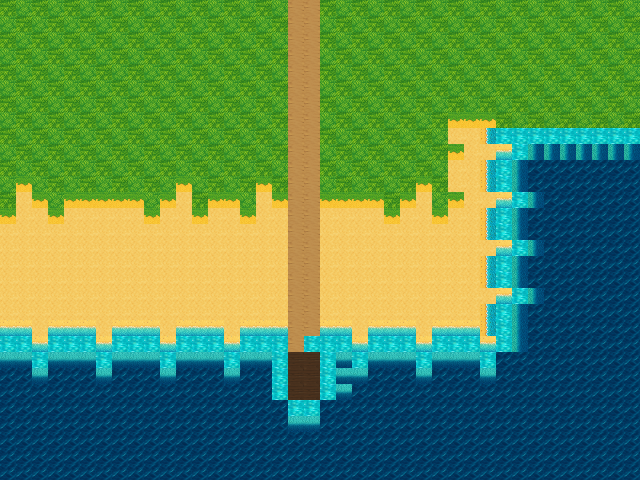
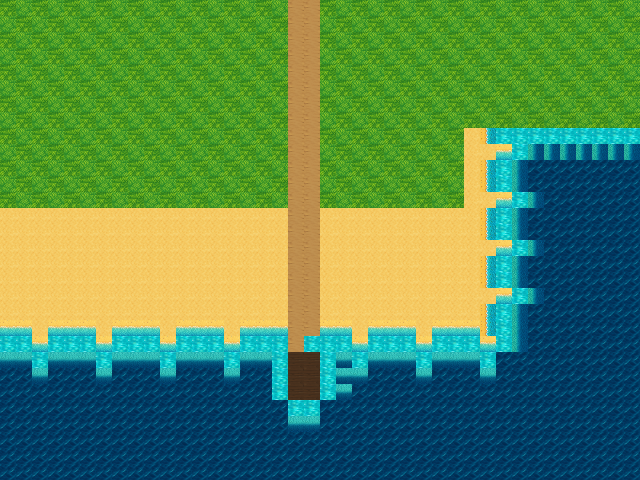
Ocean 31i: straight grass-to-beach line, keep foam scallop.

Changed region(s): [[0.0, 0.375, 0.4688, 0.4688], [0.5, 0.2188, 0.7812, 0.4688]]

diff --git a/index.html b/index.html
@@ -115,7 +115,7 @@
 (function () {
   "use strict";
 
-  var BUILD = "20260831h";
+  var BUILD = "20260831i";
   var VIEW_W = 320;
   var VIEW_H = 192;
   var TILE = 16;
@@ -3089,7 +3089,7 @@
   function buildOceanGround() {
     var cols = OCEAN_COLS, rows = OCEAN_ROWS;
     var g = [], y, x, row, ch;
-    /* 31h stamped oceanMap: grass/dirt/sand/dock walkable (f); foam/water solid (y). */
+    /* 31i stamped oceanMap: grass/dirt/sand/dock walkable (f); foam/water solid (y). */
     var walk = [
       "ffffffffffffffffffffffffffffffffffffffff",
       "ffffffffffffffffffffffffffffffffffffffff",

diff --git a/BACKLOG.md b/BACKLOG.md
@@ -2,6 +2,7 @@
 
 Playtest issues from the live game ([yamizzle.github.io/orion-farm](https://yamizzle.github.io/orion-farm/)). Both Grok Build and Grok Bot should pick from the top. Do not close an item without a playtest on the live URL.
 
+Local 8/31 (BUILD 20260831i): ocean grass-to-beach is a straight tile row (not jagged); foam/water unchanged. Household save intact. Never START OVER.
 Local 8/31 (BUILD 20260831h): ocean ground restamped with Imagine transition tiles (grass, dirt, sand, foam, shallow, deep) so the shoreline is jagged like 31e; trees/flora/critters stay real props. Household save intact. Never START OVER.
 Local 8/31 (BUILD 20260831g): treetop bird sits in the painted canopy nest; overlay nest sprite removed; TREE 1 nest overlay kept.
 Local 8/31 (BUILD 20260831f): ocean ground is Imagine-stamped 16px tiles; trees/bushes/flowers/critters are real props (chop/pick/pull/tap); no painted-in flora; path aligned to tiles; farm grass/Orion/DAY_MS untouched.
